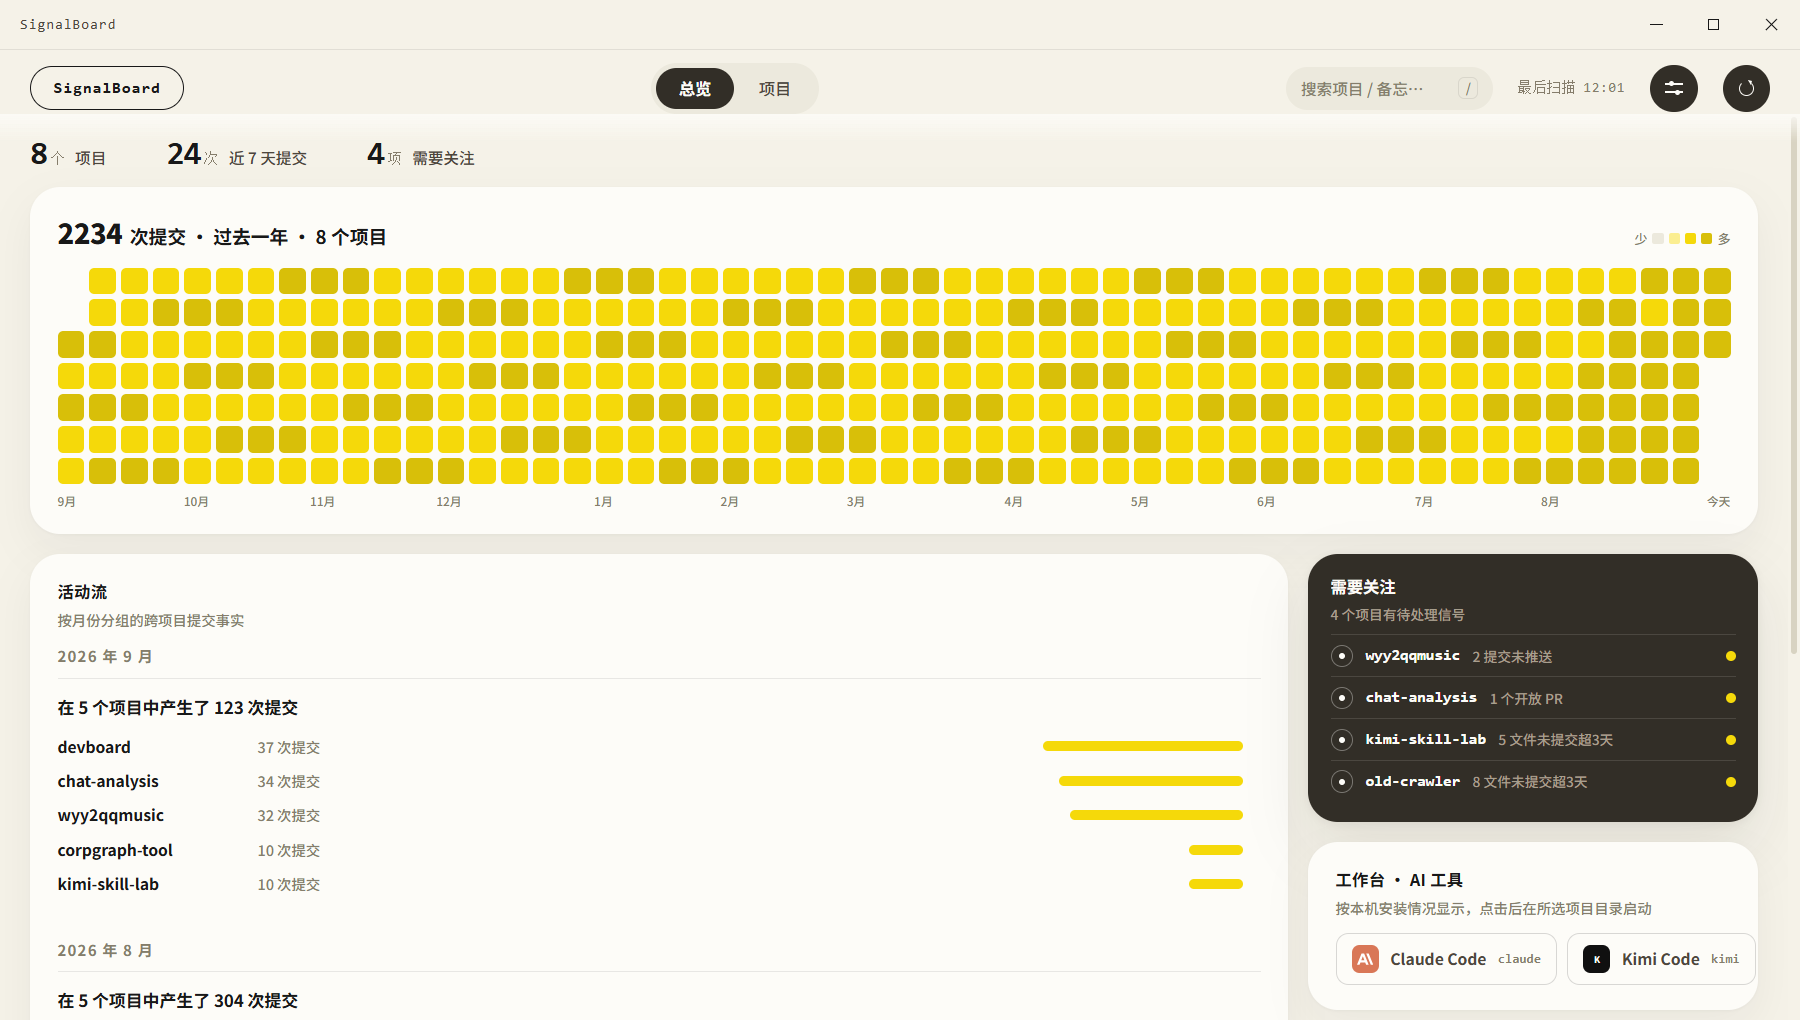
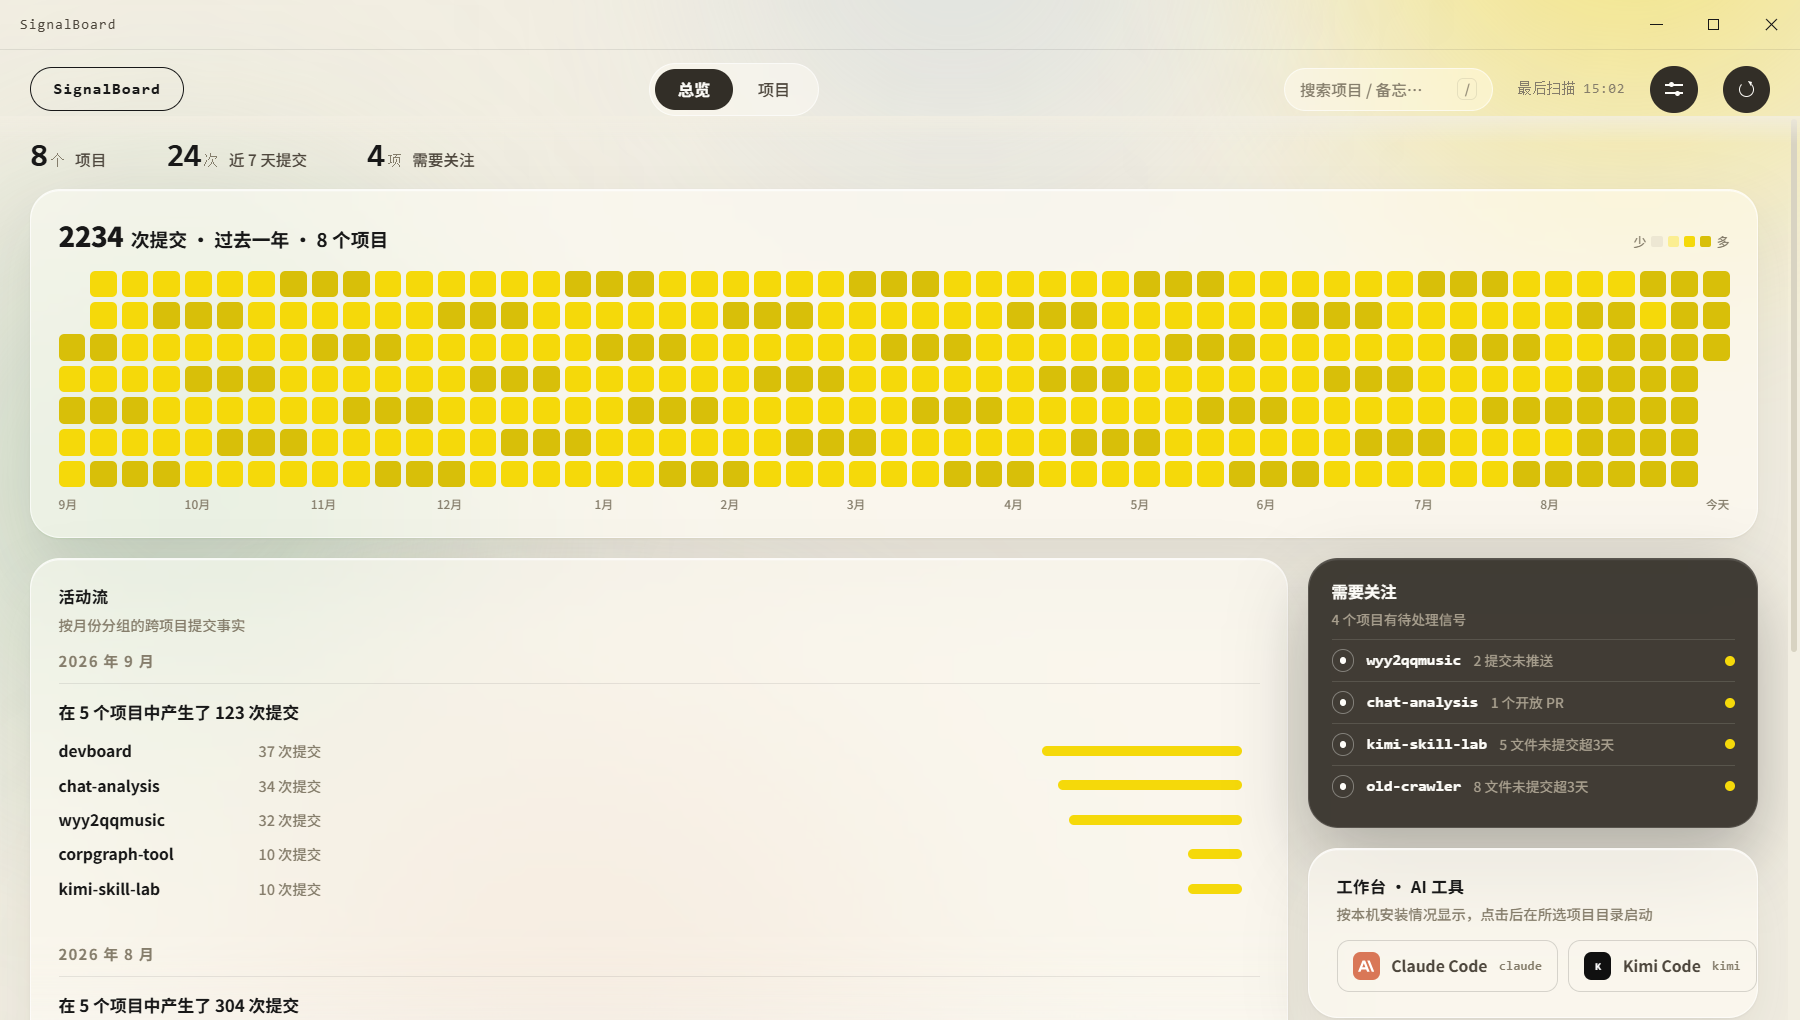
透玻璃背景板落地：blobs 柔光层 + 全表面玻璃化，四主题 token 适配
- body 底改为 --bg-art 奶油底，新增 fixed 四团柔光层（index.html .blobs），
  右上光团由 applyTheme 跟随强调色派生（--blob-1），其余三色逐主题配置
- 卡片表面统一玻璃覆层：.ov-card/.rows/.panel-in/.settings-card/.skel
  半透 --glass-card + backdrop blur(26px) + 内高光描边；导航/搜索/筛选 pill
  轻度玻璃 blur(14px)；关注卡保留实色纪律仅轻微透光（--glass-tile）
- 热力图空格 --cell-empty 透光；顶栏过渡带改用 --fade-rgb 基底渐变
- 四主题（暖阳/雾蓝/青野/暗夜）各自覆写全套玻璃 token；暗夜主题关注卡
  为浅色 tile，补齐 --tile-line/--tile-ic 深色分隔线与图标圈（原为白色硬编码不可见）
- 重拍 screenshot.png / screenshot-mock.png 验证默认姿态

diff --git a/src/renderer/styles.css b/src/renderer/styles.css
@@ -37,12 +37,30 @@
   --band-cool:#7d94a8;
   --band-stale:#b3ac9a;
   --band-arch:#d8d3c2;
+
+  /* 透玻璃背景板 token（参考案例的透玻璃设计；此处为暖阳默认值，其余主题在 app.js THEMES 覆写） */
+  --bg-art:#f2eee2;                /* 奶油底色：比 --bg 略深，衬出柔光 */
+  --blob-1:rgba(245,217,10,.55);   /* 右上光团：由 JS 跟随强调色派生 */
+  --blob-2:rgba(158,196,167,.55);  /* 左中 青 */
+  --blob-3:rgba(223,205,189,.85);  /* 左下 桃 */
+  --blob-4:rgba(179,199,216,.4);   /* 顶部 冷蓝 */
+  --glass-card:rgba(253,252,248,.6);
+  --glass-line:rgba(255,255,255,.62);
+  --glass-shadow:0 1px 2px rgba(24,24,24,.05),0 22px 52px rgba(24,24,24,.09),inset 0 1px 0 rgba(255,255,255,.7);
+  --glass-tile:rgba(45,41,34,.9);  /* 深色关注卡：保留实色纪律，仅轻微透光 */
+  --glass-tile-line:rgba(255,255,255,.13);
+  --glass-tile-shadow:0 24px 56px rgba(24,24,24,.3),inset 0 1px 0 rgba(255,255,255,.1);
+  --glass-well:rgba(253,252,248,.5);
+  --cell-empty:rgba(24,24,24,.06); /* 热力图空格透出背景柔光 */
+  --fade-rgb:242,238,226;          /* 顶栏过渡带的基底（与 --bg-art 同色） */
+  --tile-line:rgba(253,252,248,.12); /* 深色关注卡内的分隔线与图标圈（浅色 tile 主题在 app.js 覆写） */
+  --tile-ic:rgba(253,252,248,.35);
 }
 
 *{margin:0;padding:0;box-sizing:border-box}
 html,body{height:100%}
 body{
-  background:var(--bg);
+  background:var(--bg-art);
   color:var(--ink);
   font-family:"Noto Sans SC","PingFang SC","Microsoft YaHei",-apple-system,sans-serif;
   font-weight:450;
@@ -53,8 +71,20 @@ body{
   html,body{overflow:hidden}
 }
 .mono{font-family:ui-monospace,"SF Mono",Consolas,"Courier New",monospace}
-.app{max-width:1440px;height:100vh;margin:0 auto;display:flex;flex-direction:column}
+.app{max-width:1440px;height:100vh;margin:0 auto;display:flex;flex-direction:column;position:relative;z-index:1}
 .hidden{display:none !important}
+
+/* ---------- 背景柔光层：fixed 四团光斑，供玻璃卡片模糊取样 ---------- */
+.blobs{position:fixed;inset:0;z-index:0;overflow:hidden;pointer-events:none}
+.blob{position:absolute;border-radius:50%;filter:blur(80px)}
+.blob.y{width:46vw;height:46vw;right:-18vw;top:-26vw;
+  background:radial-gradient(circle at 40% 40%, var(--blob-1), transparent 68%)}
+.blob.g{width:44vw;height:44vw;left:-14vw;top:12vh;
+  background:radial-gradient(circle at 55% 45%, var(--blob-2), transparent 70%)}
+.blob.p{width:52vw;height:52vw;left:6vw;bottom:-30vw;
+  background:radial-gradient(circle at 50% 40%, var(--blob-3), transparent 70%)}
+.blob.b{width:38vw;height:38vw;left:34vw;top:-22vw;
+  background:radial-gradient(circle at 50% 50%, var(--blob-4), transparent 70%)}
 
 /* ---------- 自定义标题栏 ---------- */
 .titlebar{
@@ -95,7 +125,7 @@ body{
 }
 /* 顶层导航：总览 | 项目（issue #14） */
 .nav{
-  margin:0 auto;display:flex;gap:2px;background:var(--well);
+  margin:0 auto;display:flex;gap:2px;background:var(--glass-well);
   border-radius:var(--r-pill);padding:4px;
 }
 .nav button{
@@ -110,7 +140,7 @@ body{
 /* 搜索框 */
 .search{
   position:relative;
-  display:flex;align-items:center;gap:6px;background:var(--well);
+  display:flex;align-items:center;gap:6px;background:var(--glass-well);
   border-radius:var(--r-pill);padding:0 12px;height:34px;
 }
 .search input{
@@ -171,7 +201,7 @@ body{
 .top-fade{
   flex:none;height:22px;margin-bottom:-22px;position:relative;z-index:6;
   pointer-events:none;
-  background:linear-gradient(to bottom,var(--card) 0%,rgba(253,252,248,0) 100%);
+  background:linear-gradient(to bottom,rgba(var(--fade-rgb),.92) 0%,rgba(var(--fade-rgb),0) 100%);
   opacity:.85;
 }
 .top-fade::before{
@@ -251,20 +281,22 @@ main{flex:1;min-height:0;overflow-y:auto;padding:14px 24px 24px}
 
 /* 需要关注：右栏固定位黑卡，视觉权重最高（issue #15，铃铛已退役） */
 .attn-card{
-  background:var(--tile);color:var(--tile-ink);
-  border-radius:var(--r-card);box-shadow:var(--shadow-2);
+  background:var(--glass-tile);color:var(--tile-ink);
+  -webkit-backdrop-filter:blur(18px);backdrop-filter:blur(18px);
+  border:1px solid var(--glass-tile-line);
+  border-radius:var(--r-card);box-shadow:var(--glass-tile-shadow);
   padding:16px 18px;margin-bottom:16px;
 }
 .attn-card h3{font-size:13px;font-weight:600}
 .attn-card .sub{font-size:11px;color:var(--tile-ink2);margin:4px 0 8px}
 .attn-item{
   display:flex;align-items:center;gap:10px;
-  padding:7px 0;border-top:1px solid rgba(253,252,248,.12);
+  padding:7px 0;border-top:1px solid var(--tile-line);
   cursor:pointer;
 }
 .attn-item .ic{
   width:18px;height:18px;flex:none;border-radius:50%;
-  border:1px solid rgba(253,252,248,.35);
+  border:1px solid var(--tile-ic);
   display:flex;align-items:center;justify-content:center;
 }
 .attn-item .ic::after{content:"";width:5px;height:5px;border-radius:50%;background:var(--tile-ink)}
@@ -307,13 +339,19 @@ main{flex:1;min-height:0;overflow-y:auto;padding:14px 24px 24px}
 
 /* ---------- 项目页：筛选条（issue #16/#18） ---------- */
 .filterbar{display:flex;align-items:center;gap:10px;padding:2px 0 12px}
-.chips{display:flex;gap:2px;background:var(--well);border-radius:var(--r-pill);padding:4px}
+.chips{display:flex;gap:2px;background:var(--glass-well);border-radius:var(--r-pill);padding:4px}
 .chips button{
   border:0;background:transparent;border-radius:var(--r-pill);
   padding:5px 13px;font:inherit;font-size:12px;color:var(--ink-2);cursor:pointer;
 }
 .chips button:hover{color:var(--ink)}
 .chips button.active{background:var(--tile);color:var(--tile-ink);font-weight:600}
+
+/* 玻璃覆层：顶栏导航 / 搜索 / 筛选 pill 的模糊与描边（背景色已在各自规则中给出） */
+.nav,.search,.chips{
+  -webkit-backdrop-filter:blur(14px) saturate(1.4);backdrop-filter:blur(14px) saturate(1.4);
+  border:1px solid var(--glass-line);
+}
 .sort-wrap{margin-left:auto;position:relative}
 .sort-btn{
   display:inline-flex;align-items:center;gap:6px;
@@ -473,7 +511,7 @@ main{flex:1;min-height:0;overflow-y:auto;padding:14px 24px 24px}
   display:grid;grid-template-rows:repeat(7, auto);
   grid-auto-flow:column;grid-auto-columns:1fr;gap:3px;width:100%;
 }
-.cell{border-radius:20%;background:var(--well);aspect-ratio:1;display:block}
+.cell{border-radius:20%;background:var(--cell-empty);aspect-ratio:1;display:block}
 .cell.blank{visibility:hidden}
 .cell.l1{background:var(--accent-soft)}
 .cell.l2{background:var(--accent)}
@@ -589,6 +627,14 @@ main{flex:1;min-height:0;overflow-y:auto;padding:14px 24px 24px}
   max-width:920px;height:100%;margin:0 auto;background:var(--card);
   border-radius:var(--r-card);box-shadow:var(--shadow-1);
   display:flex;overflow:hidden;
+}
+
+/* 玻璃覆层：各卡片表面统一半透 + 背景模糊 + 内高光描边（.rows .skel 的更高优先级规则不受影响） */
+.ov-card,.rows,.panel-in,.settings-card,.skel{
+  background:var(--glass-card);
+  -webkit-backdrop-filter:blur(26px) saturate(1.55);backdrop-filter:blur(26px) saturate(1.55);
+  border:1px solid var(--glass-line);
+  box-shadow:var(--glass-shadow);
 }
 .settings-nav{
   flex:none;width:172px;padding:20px 12px;

diff --git a/src/renderer/app.js b/src/renderer/app.js
@@ -1154,6 +1154,15 @@
         '--shadow-2': '0 2px 6px rgba(24,24,24,.06),0 22px 48px rgba(24,24,24,.09)',
         '--btn-line': 'rgba(24,24,24,.16)', '--btn-fail-bg': '#e8b4b0',
         '--band-active': '#d98e32', '--band-cool': '#7d94a8', '--band-stale': '#b3ac9a', '--band-arch': '#d8d3c2',
+        /* 透玻璃背景板：奶油底 + 柔光配色（--blob-1 由 applyTheme 跟随强调色派生） */
+        '--bg-art': '#f2eee2',
+        '--blob-2': 'rgba(158,196,167,.55)', '--blob-3': 'rgba(223,205,189,.85)', '--blob-4': 'rgba(179,199,216,.4)',
+        '--glass-card': 'rgba(253,252,248,.6)', '--glass-line': 'rgba(255,255,255,.62)',
+        '--glass-shadow': '0 1px 2px rgba(24,24,24,.05),0 22px 52px rgba(24,24,24,.09),inset 0 1px 0 rgba(255,255,255,.7)',
+        '--glass-tile': 'rgba(45,41,34,.9)', '--glass-tile-line': 'rgba(255,255,255,.13)',
+        '--glass-tile-shadow': '0 24px 56px rgba(24,24,24,.3),inset 0 1px 0 rgba(255,255,255,.1)',
+        '--glass-well': 'rgba(253,252,248,.5)',
+        '--cell-empty': 'rgba(24,24,24,.06)', '--fade-rgb': '242,238,226',
       },
     },
     mist: {
@@ -1166,6 +1175,15 @@
         '--shadow-2': '0 2px 6px rgba(24,28,34,.06),0 22px 48px rgba(24,28,34,.09)',
         '--btn-line': 'rgba(24,28,34,.16)', '--btn-fail-bg': '#e8b4b0',
         '--band-active': '#d98e32', '--band-cool': '#7d94a8', '--band-stale': '#a8b0b8', '--band-arch': '#d3d8de',
+        /* 透玻璃背景板：冷灰蓝底，青/桃光团收敛、冷蓝加重 */
+        '--bg-art': '#e9edf3',
+        '--blob-2': 'rgba(158,196,167,.45)', '--blob-3': 'rgba(219,208,196,.7)', '--blob-4': 'rgba(179,199,216,.55)',
+        '--glass-card': 'rgba(251,252,253,.62)', '--glass-line': 'rgba(255,255,255,.66)',
+        '--glass-shadow': '0 1px 2px rgba(24,28,34,.05),0 22px 52px rgba(24,28,34,.09),inset 0 1px 0 rgba(255,255,255,.72)',
+        '--glass-tile': 'rgba(43,49,58,.9)', '--glass-tile-line': 'rgba(255,255,255,.13)',
+        '--glass-tile-shadow': '0 24px 56px rgba(24,28,34,.3),inset 0 1px 0 rgba(255,255,255,.1)',
+        '--glass-well': 'rgba(251,252,253,.5)',
+        '--cell-empty': 'rgba(24,28,34,.06)', '--fade-rgb': '233,237,243',
       },
     },
     meadow: {
@@ -1178,6 +1196,15 @@
         '--shadow-2': '0 2px 6px rgba(23,32,26,.06),0 22px 48px rgba(23,32,26,.09)',
         '--btn-line': 'rgba(23,32,26,.16)', '--btn-fail-bg': '#e8b4b0',
         '--band-active': '#d98e32', '--band-cool': '#7d94a8', '--band-stale': '#a9b1a4', '--band-arch': '#d5dcd0',
+        /* 透玻璃背景板：青绿底，青光团加重、冷蓝收敛 */
+        '--bg-art': '#e9efe5',
+        '--blob-2': 'rgba(158,196,167,.6)', '--blob-3': 'rgba(223,205,189,.7)', '--blob-4': 'rgba(179,199,216,.35)',
+        '--glass-card': 'rgba(252,253,251,.6)', '--glass-line': 'rgba(255,255,255,.62)',
+        '--glass-shadow': '0 1px 2px rgba(23,32,26,.05),0 22px 52px rgba(23,32,26,.09),inset 0 1px 0 rgba(255,255,255,.7)',
+        '--glass-tile': 'rgba(40,51,43,.9)', '--glass-tile-line': 'rgba(255,255,255,.13)',
+        '--glass-tile-shadow': '0 24px 56px rgba(23,32,26,.3),inset 0 1px 0 rgba(255,255,255,.1)',
+        '--glass-well': 'rgba(252,253,251,.5)',
+        '--cell-empty': 'rgba(23,32,26,.06)', '--fade-rgb': '233,239,229',
       },
     },
     dark: {
@@ -1190,6 +1217,16 @@
         '--shadow-2': '0 2px 6px rgba(0,0,0,.35),0 22px 48px rgba(0,0,0,.45)',
         '--btn-line': 'rgba(240,236,225,.18)', '--btn-fail-bg': '#7a3d3a',
         '--band-active': '#d98e32', '--band-cool': '#6b8296', '--band-stale': '#6f695b', '--band-arch': '#4a463e',
+        /* 透玻璃背景板：深棕黑底 + 低明度光团；卡片用深色玻璃，关注卡（浅色 tile）用浅色玻璃 */
+        '--bg-art': '#16140f',
+        '--blob-2': 'rgba(158,196,167,.25)', '--blob-3': 'rgba(223,205,189,.18)', '--blob-4': 'rgba(179,199,216,.22)',
+        '--glass-card': 'rgba(38,35,29,.55)', '--glass-line': 'rgba(255,255,255,.09)',
+        '--glass-shadow': '0 1px 2px rgba(0,0,0,.3),0 22px 52px rgba(0,0,0,.4),inset 0 1px 0 rgba(255,255,255,.06)',
+        '--glass-tile': 'rgba(236,231,216,.88)', '--glass-tile-line': 'rgba(24,24,24,.12)',
+        '--glass-tile-shadow': '0 24px 56px rgba(0,0,0,.4),inset 0 1px 0 rgba(255,255,255,.35)',
+        '--glass-well': 'rgba(38,35,29,.5)',
+        '--cell-empty': 'rgba(240,236,225,.08)', '--fade-rgb': '22,20,15',
+        '--tile-line': 'rgba(24,24,24,.1)', '--tile-ic': 'rgba(24,24,24,.3)',
       },
     },
   };
@@ -1227,6 +1264,8 @@
     st.setProperty('--accent-hl', rgbaOf(accent, 0.55));
     st.setProperty('--accent-glow', rgbaOf(accent, 0.45));
     st.setProperty('--accent-ring', rgbaOf(accent, 0.25));
+    // 右上光团跟随强调色；暗夜主题降低明度避免糊成一片
+    st.setProperty('--blob-1', rgbaOf(accent, t === THEMES.dark ? 0.45 : 0.55));
   }
   function savedTheme() {
     var t = (state.settings && state.settings.theme) || {};

diff --git a/src/renderer/index.html b/src/renderer/index.html
@@ -7,6 +7,13 @@
 <link rel="stylesheet" href="styles.css">
 </head>
 <body>
+<!-- 背景柔光层：四团 fixed 光斑，供玻璃卡片 backdrop-filter 模糊取样（颜色随主题 token 切换） -->
+<div class="blobs" aria-hidden="true">
+  <div class="blob y"></div>
+  <div class="blob g"></div>
+  <div class="blob p"></div>
+  <div class="blob b"></div>
+</div>
 <div class="app" id="app">
 
   <!-- 自定义标题栏 -->
